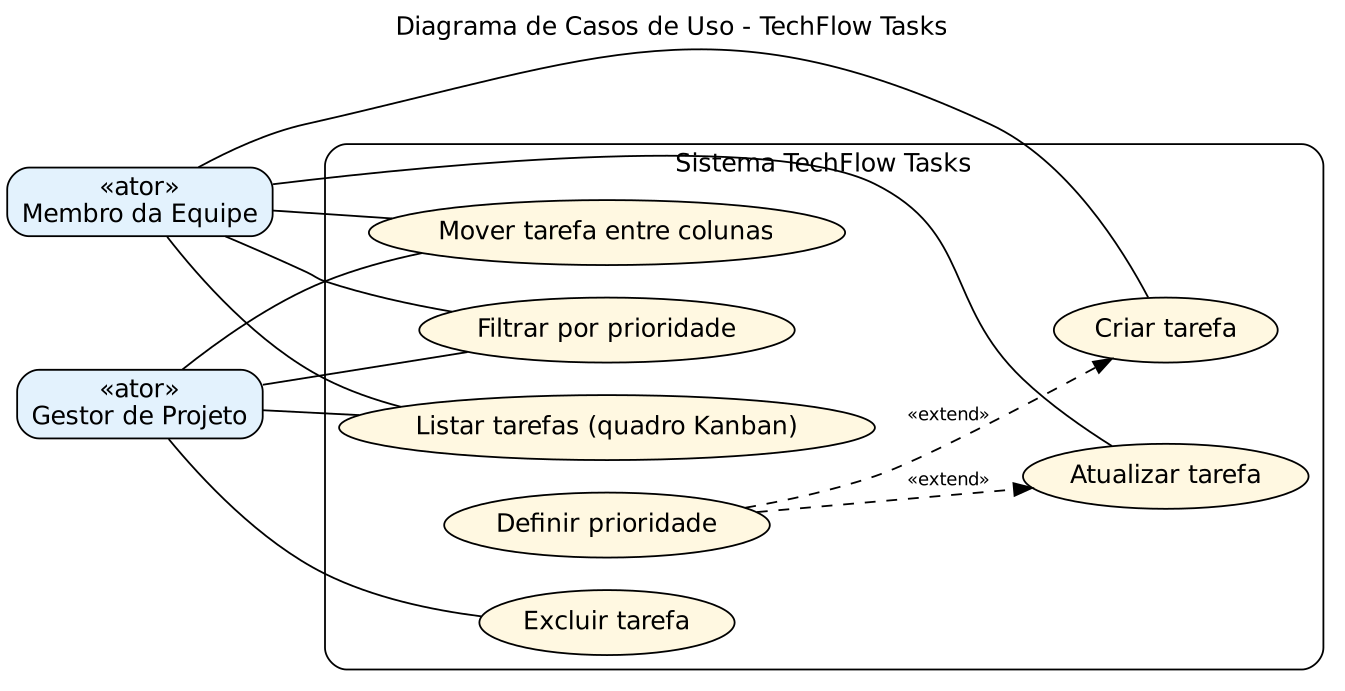
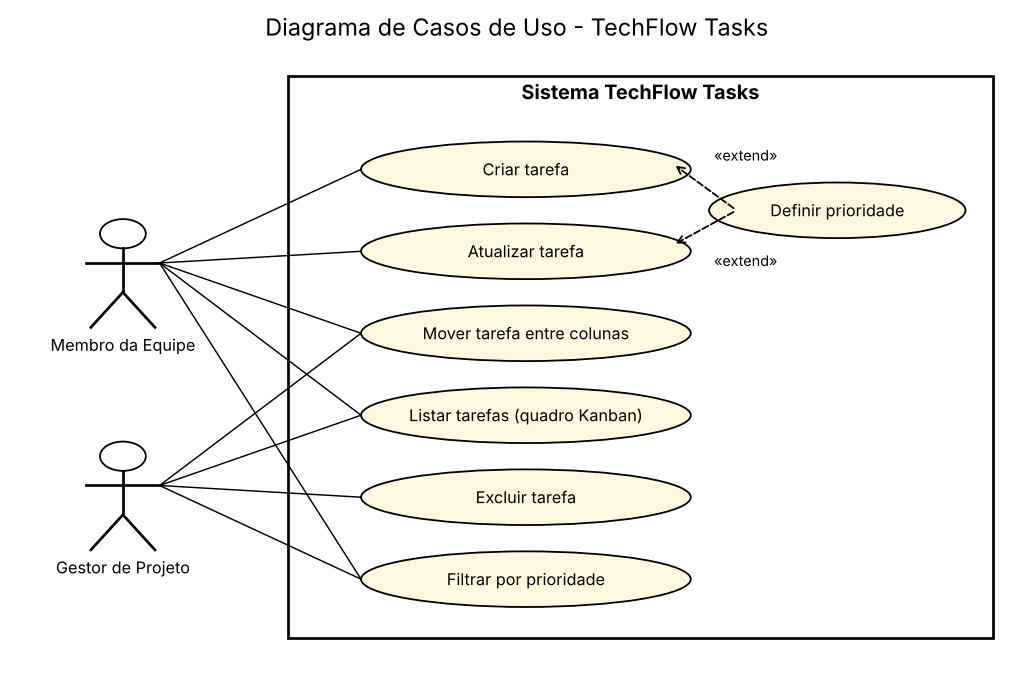
docs: melhora legibilidade dos diagramas UML (casos de uso e classes)

diff --git a/docs/gerar_diagramas.py b/docs/gerar_diagramas.py
@@ -22,50 +22,68 @@ def renderizar(nome, dot):
 
 
 def casos_de_uso():
-    extra_nos = ""
-    extra_arestas = ""
+    """Desenha o diagrama de casos de uso com posições fixas (matplotlib)."""
+    import matplotlib
+    matplotlib.use("Agg")
+    import matplotlib.pyplot as plt
+    from matplotlib.patches import Ellipse, Rectangle
+
+    fig, ax = plt.subplots(figsize=(10, 6.2))
+    ax.set_xlim(0, 11)
+    ax.set_ylim(-0.3, 10.3)
+    ax.axis("off")
+    ax.set_title("Diagrama de Casos de Uso - TechFlow Tasks", fontsize=13)
+    ax.add_patch(Rectangle((3.0, 0.2), 7.7, 9.6, fill=False, linewidth=1.5))
+    ax.text(6.85, 9.4, "Sistema TechFlow Tasks", ha="center", fontsize=11, weight="bold")
+
+    cx = 5.6
+    casos = {"criar": ("Criar tarefa", 8.2), "atualizar": ("Atualizar tarefa", 6.8),
+             "mover": ("Mover tarefa entre colunas", 5.4),
+             "listar": ("Listar tarefas (quadro Kanban)", 4.0),
+             "excluir": ("Excluir tarefa", 2.6)}
     if PRIORIDADE:
-        extra_nos = (
-            '    uc6 [label="Definir prioridade"];\n'
-            '    uc7 [label="Filtrar por prioridade"];\n'
-        )
-        extra_arestas = (
-            '  gestor -> uc7 [arrowhead=none];\n'
-            '  membro -> uc7 [arrowhead=none];\n'
-            '  uc6 -> uc1 [style=dashed, label="«extend»", fontsize=10];\n'
-            '  uc6 -> uc3 [style=dashed, label="«extend»", fontsize=10];\n'
-        )
-    return f"""digraph casos_de_uso {{
-  rankdir=LR; fontname="Helvetica"; labelloc=t;
-  label="Diagrama de Casos de Uso - TechFlow Tasks";
-  node [fontname="Helvetica"]; edge [fontname="Helvetica"];
-  membro [label="«ator»\\nMembro da Equipe", shape=box, style="rounded,filled", fillcolor="#E3F2FD"];
-  gestor [label="«ator»\\nGestor de Projeto", shape=box, style="rounded,filled", fillcolor="#E3F2FD"];
-  subgraph cluster_sistema {{
-    label="Sistema TechFlow Tasks"; style=rounded; fontname="Helvetica";
-    node [shape=ellipse, style=filled, fillcolor="#FFF8E1"];
-    uc1 [label="Criar tarefa"];
-    uc2 [label="Listar tarefas (quadro Kanban)"];
-    uc3 [label="Atualizar tarefa"];
-    uc4 [label="Mover tarefa entre colunas"];
-    uc5 [label="Excluir tarefa"];
-{extra_nos}  }}
-  membro -> uc1 [arrowhead=none];
-  membro -> uc2 [arrowhead=none];
-  membro -> uc3 [arrowhead=none];
-  membro -> uc4 [arrowhead=none];
-  gestor -> uc2 [arrowhead=none];
-  gestor -> uc5 [arrowhead=none];
-  gestor -> uc4 [arrowhead=none];
-{extra_arestas}}}
-"""
+        casos["filtrar"] = ("Filtrar por prioridade", 1.2)
+    for nome, (rotulo, y) in casos.items():
+        ax.add_patch(Ellipse((cx, y), 3.6, 0.95, facecolor="#FFF8E1", edgecolor="black"))
+        ax.text(cx, y, rotulo, ha="center", va="center", fontsize=9)
+    if PRIORIDADE:
+        ax.add_patch(Ellipse((9.0, 7.5), 2.8, 0.95, facecolor="#FFF8E1", edgecolor="black"))
+        ax.text(9.0, 7.5, "Definir prioridade", ha="center", va="center", fontsize=9)
+        for alvo in ("criar", "atualizar"):
+            ax.annotate("", xy=(cx + 1.6, casos[alvo][1] + 0.1), xytext=(7.9, 7.5),
+                        arrowprops=dict(arrowstyle="->", linestyle="dashed"))
+        ax.text(8.0, 8.35, "«extend»", fontsize=8, ha="center")
+        ax.text(8.0, 6.55, "«extend»", fontsize=8, ha="center")
+
+    def ator(x, y, nome):
+        ax.add_patch(plt.Circle((x, y + 0.9), 0.25, fill=False))
+        ax.plot([x, x], [y + 0.65, y - 0.1], color="black")
+        ax.plot([x - 0.4, x + 0.4], [y + 0.4, y + 0.4], color="black")
+        ax.plot([x, x - 0.35], [y - 0.1, y - 0.7], color="black")
+        ax.plot([x, x + 0.35], [y - 0.1, y - 0.7], color="black")
+        ax.text(x, y - 1.1, nome, ha="center", fontsize=9)
+
+    membro, gestor = (1.2, 6.2), (1.2, 2.4)
+    ator(*membro, "Membro da Equipe")
+    ator(*gestor, "Gestor de Projeto")
+    ligacoes = {membro: ["criar", "atualizar", "mover", "listar"],
+                gestor: ["listar", "mover", "excluir"]}
+    if PRIORIDADE:
+        ligacoes[membro].append("filtrar")
+        ligacoes[gestor].append("filtrar")
+    for (x, y), alvos in ligacoes.items():
+        for alvo in alvos:
+            ax.plot([x + 0.4, cx - 1.8], [y + 0.4, casos[alvo][1]], color="black", linewidth=0.8)
+    fig.savefig(DOCS / "diagrama_casos_de_uso.png", dpi=130, bbox_inches="tight")
+    plt.close(fig)
+    print("Gerado: diagrama_casos_de_uso.png")
 
 
 def classes():
     campo_prioridade = "+ prioridade: str\\l" if PRIORIDADE else ""
     metodo_lista = "+ list(status, prioridade): list\\l" if PRIORIDADE else "+ list(status): list\\l"
     return f"""digraph classes {{
-  rankdir=LR; fontname="Helvetica"; labelloc=t;
+  rankdir=TB; nodesep=0.6; ranksep=0.7; fontname="Helvetica"; labelloc=t;
   label="Diagrama de Classes - TechFlow Tasks";
   node [shape=record, fontname="Helvetica", style=filled, fillcolor="#FFFFFF"];
   edge [fontname="Helvetica", fontsize=10];
@@ -83,5 +101,5 @@ def classes():
 
 
 if __name__ == "__main__":
-    renderizar("diagrama_casos_de_uso", casos_de_uso())
+    casos_de_uso()
     renderizar("diagrama_classes", classes())
